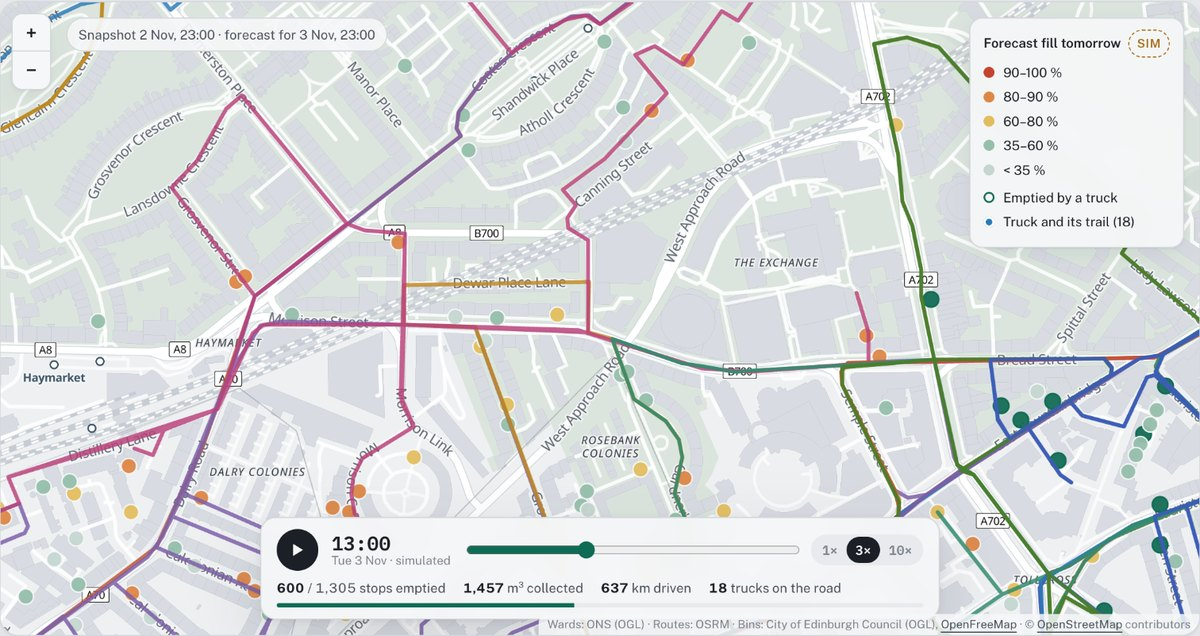
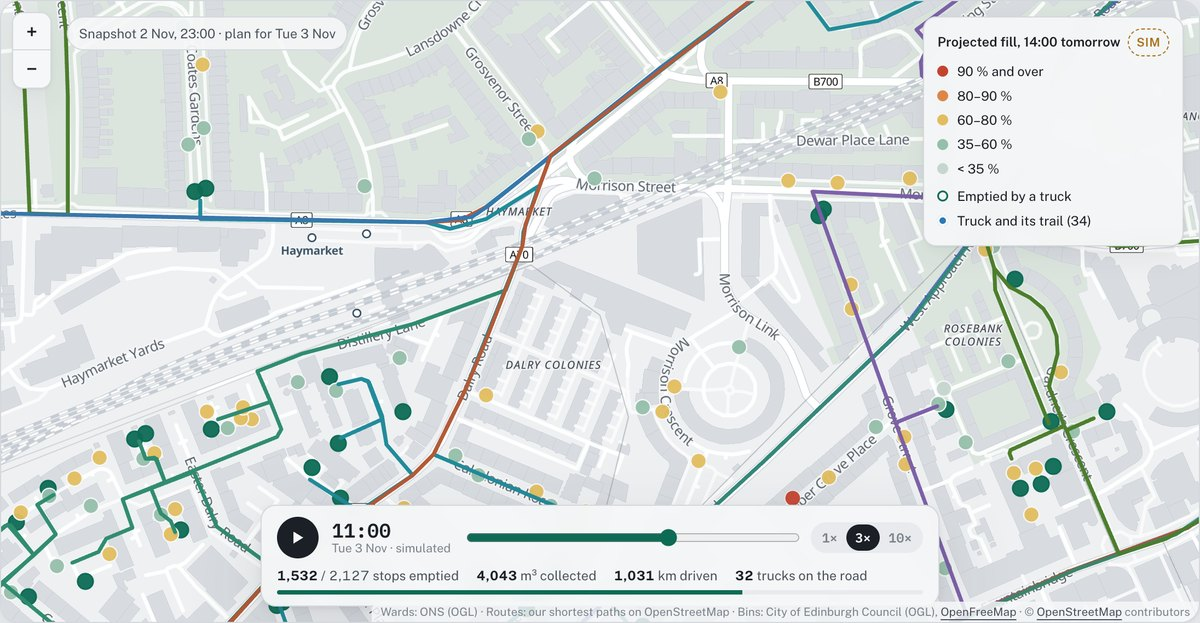
Re-record README replay and street images for the 34-truck plan
docs/replay.gif and docs/street.jpg showed the old 18-truck plan; both
are recaptured from the current site (06:00 to 13:50, 2,127 stops).
The depot tooltip read the fleet size from a hard-coded "24 trucks";
it now uses data/site.json.

diff --git a/index.html b/index.html
@@ -1365,7 +1365,7 @@ function initMap() {
   restyleStops();
   // depot
   const dep = [D.site.depot.latitude, D.site.depot.longitude];
-  L.circleMarker(dep, { renderer: canvas, radius: 8, color: PAL.surface, weight: 2, fillColor: PAL.ink, fillOpacity: 1 }).bindTooltip("Seafield depot · 24 trucks", { direction: "top" }).addTo(map);
+  L.circleMarker(dep, { renderer: canvas, radius: 8, color: PAL.surface, weight: 2, fillColor: PAL.ink, fillOpacity: 1 }).bindTooltip(`Seafield depot · ${D.site.fleet.trucks} trucks`, { direction: "top" }).addTo(map);
   highlight = L.layerGroup().addTo(map);
   map.on("zoomend", restyleStops);
   BS.map = map;

diff --git a/site/binsight.html b/site/binsight.html
@@ -1354,7 +1354,7 @@ function initMap() {
   restyleStops();
   // depot
   const dep = [D.site.depot.latitude, D.site.depot.longitude];
-  L.circleMarker(dep, { renderer: canvas, radius: 8, color: PAL.surface, weight: 2, fillColor: PAL.ink, fillOpacity: 1 }).bindTooltip("Seafield depot · 24 trucks", { direction: "top" }).addTo(map);
+  L.circleMarker(dep, { renderer: canvas, radius: 8, color: PAL.surface, weight: 2, fillColor: PAL.ink, fillOpacity: 1 }).bindTooltip(`Seafield depot · ${D.site.fleet.trucks} trucks`, { direction: "top" }).addTo(map);
   highlight = L.layerGroup().addTo(map);
   map.on("zoomend", restyleStops);
   BS.map = map;

diff --git a/src/app.js b/src/app.js
@@ -367,7 +367,7 @@ function initMap() {
   restyleStops();
   // depot
   const dep = [D.site.depot.latitude, D.site.depot.longitude];
-  L.circleMarker(dep, { renderer: canvas, radius: 8, color: PAL.surface, weight: 2, fillColor: PAL.ink, fillOpacity: 1 }).bindTooltip("Seafield depot · 24 trucks", { direction: "top" }).addTo(map);
+  L.circleMarker(dep, { renderer: canvas, radius: 8, color: PAL.surface, weight: 2, fillColor: PAL.ink, fillOpacity: 1 }).bindTooltip(`Seafield depot · ${D.site.fleet.trucks} trucks`, { direction: "top" }).addTo(map);
   highlight = L.layerGroup().addTo(map);
   map.on("zoomend", restyleStops);
   BS.map = map;

diff --git a/README.md b/README.md
@@ -22,10 +22,10 @@
 
 ### Zoom to street level
 
-The map is a real street map of Edinburgh. Zoom in to see every building, street name and house number, with each truck’s route in its own colour (here: Haymarket, the West End and Dalry).
+The map is a real street map of Edinburgh. Zoom in to see every building, street name and house number, with each truck’s route in its own colour (here: Haymarket and the Dalry Colonies, at 11:00).
 
 <p align="center">
-  <a href="https://pasbean61.github.io/binsight-edinburgh/#console"><img src="docs/street.jpg" alt="Street-level view around Haymarket and the West End with truck routes and bin stops" width="100%"></a>
+  <a href="https://pasbean61.github.io/binsight-edinburgh/#console"><img src="docs/street.jpg" alt="Street-level view around Haymarket and the Dalry Colonies with truck routes and bin stops" width="100%"></a>
 </p>
 
 ## About
